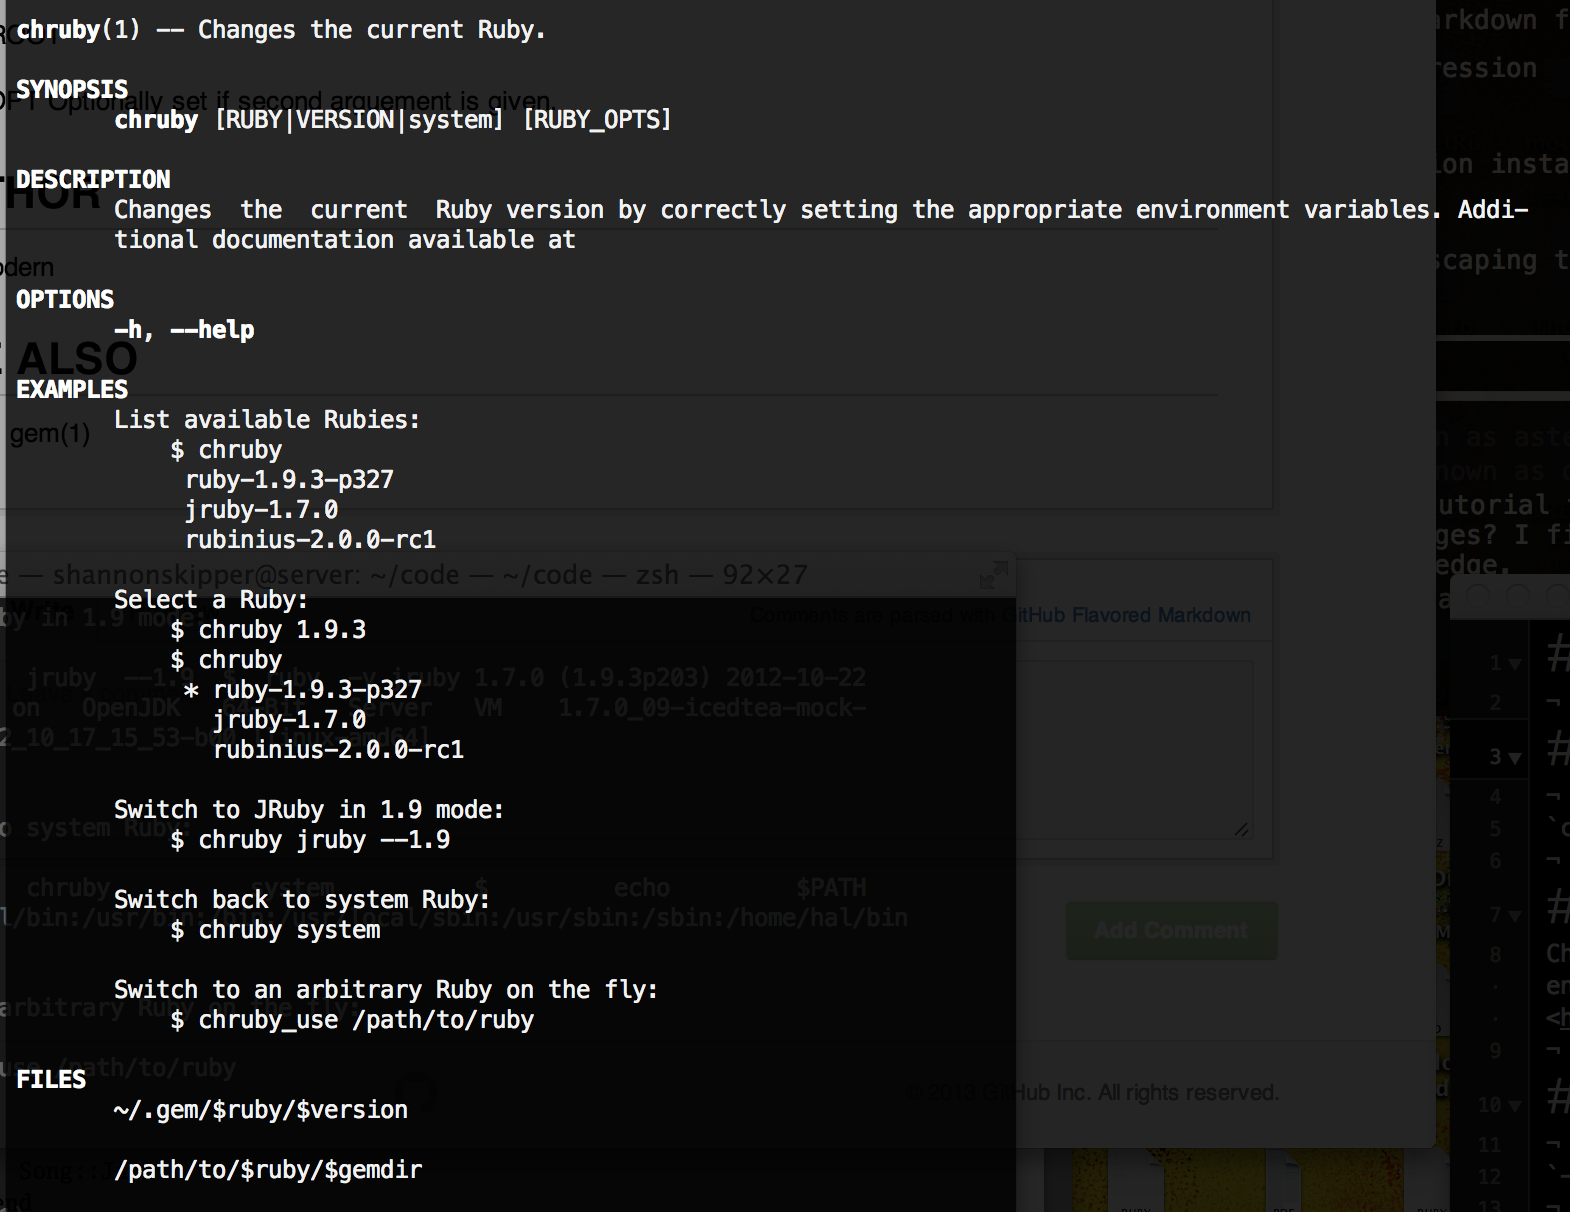
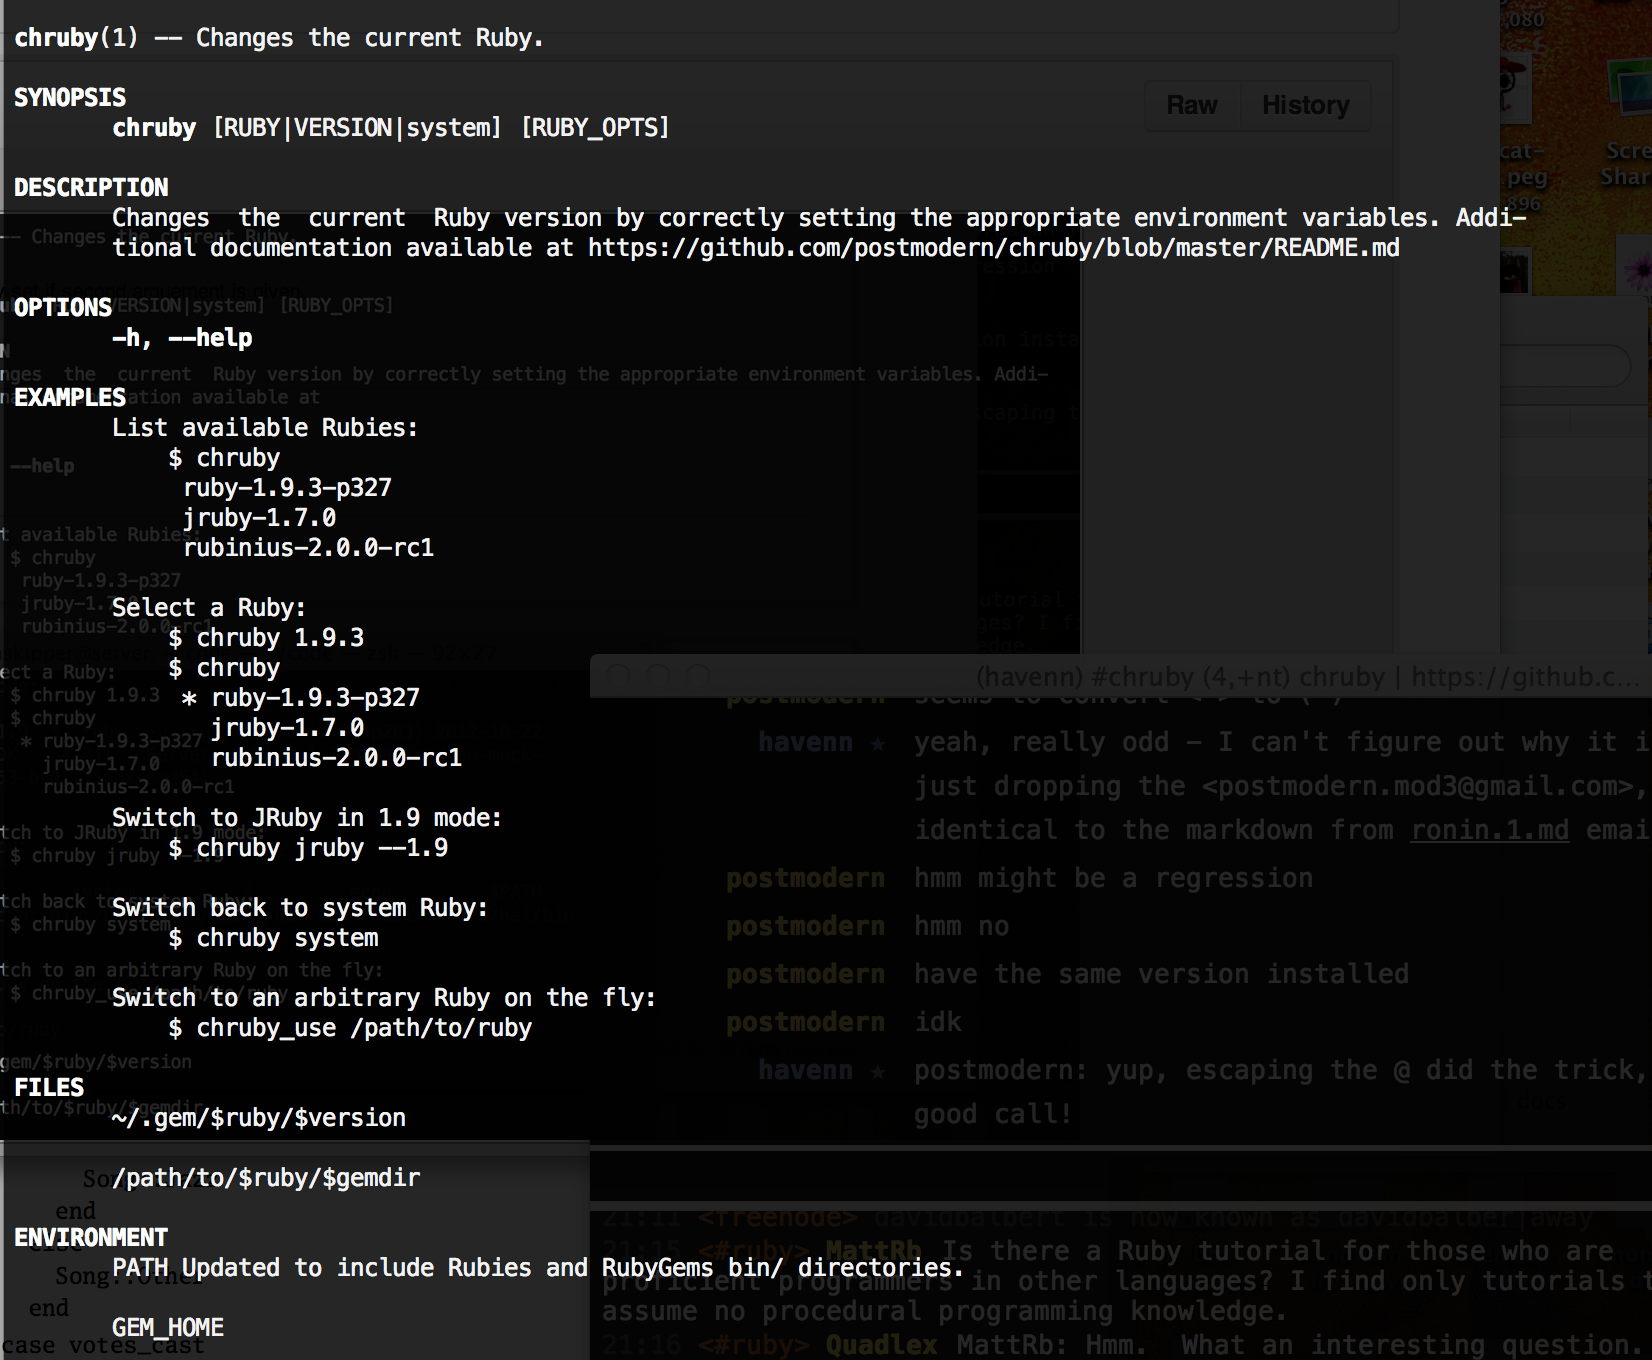
angle bracket links just disappear in actual man page

diff --git a/docs/chruby.md b/docs/chruby.md
@@ -5,7 +5,9 @@
 `chruby` [RUBY|VERSION|system] [RUBY_OPTS]
 
 ## DESCRIPTION
-Changes the current Ruby version by correctly setting the appropriate environment variables. Additional documentation available at <https://github.com/postmodern/chruby/blob/master/README.md>.
+Changes the current Ruby version by correctly setting the appropriate environment variables.
+
+[https://github.com/postmodern/chruby/blob/master/README.md](https://github.com/postmodern/chruby/blob/master/README.md)
 
 ## OPTIONS
 
